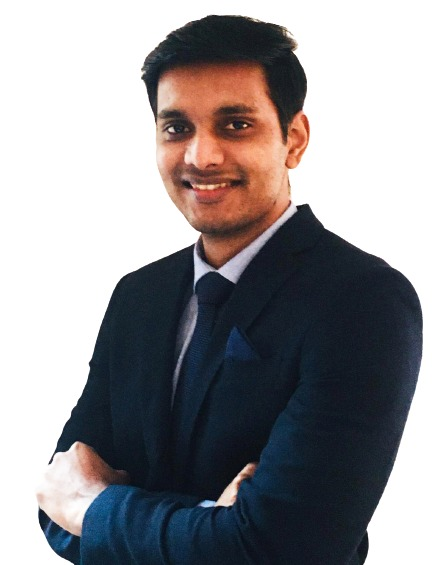
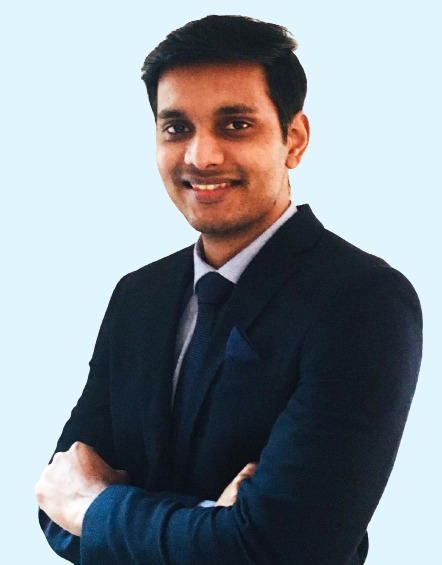
final image

diff --git a/index.html b/index.html
@@ -126,7 +126,7 @@
               </p>
             </td>
             <td style=width="32%" valign="center">
-              <a href="https://akshay23sept.github.io/CV/akshay2.jpeg"><img style="border-radius:15px" alt="profile photo" src="https://akshay23sept.github.io/CV/akshay2.jpeg" width="100%" style="border-radius:15px"></a>
+              <a href="https://akshay23sept.github.io/CV/akshay.jpeg"><img style="border-radius:15px" alt="profile photo" src="https://akshay23sept.github.io/CV/akshay.jpeg" width="100%" style="border-radius:15px"></a>
             </td>
             </td>
           </tr>
